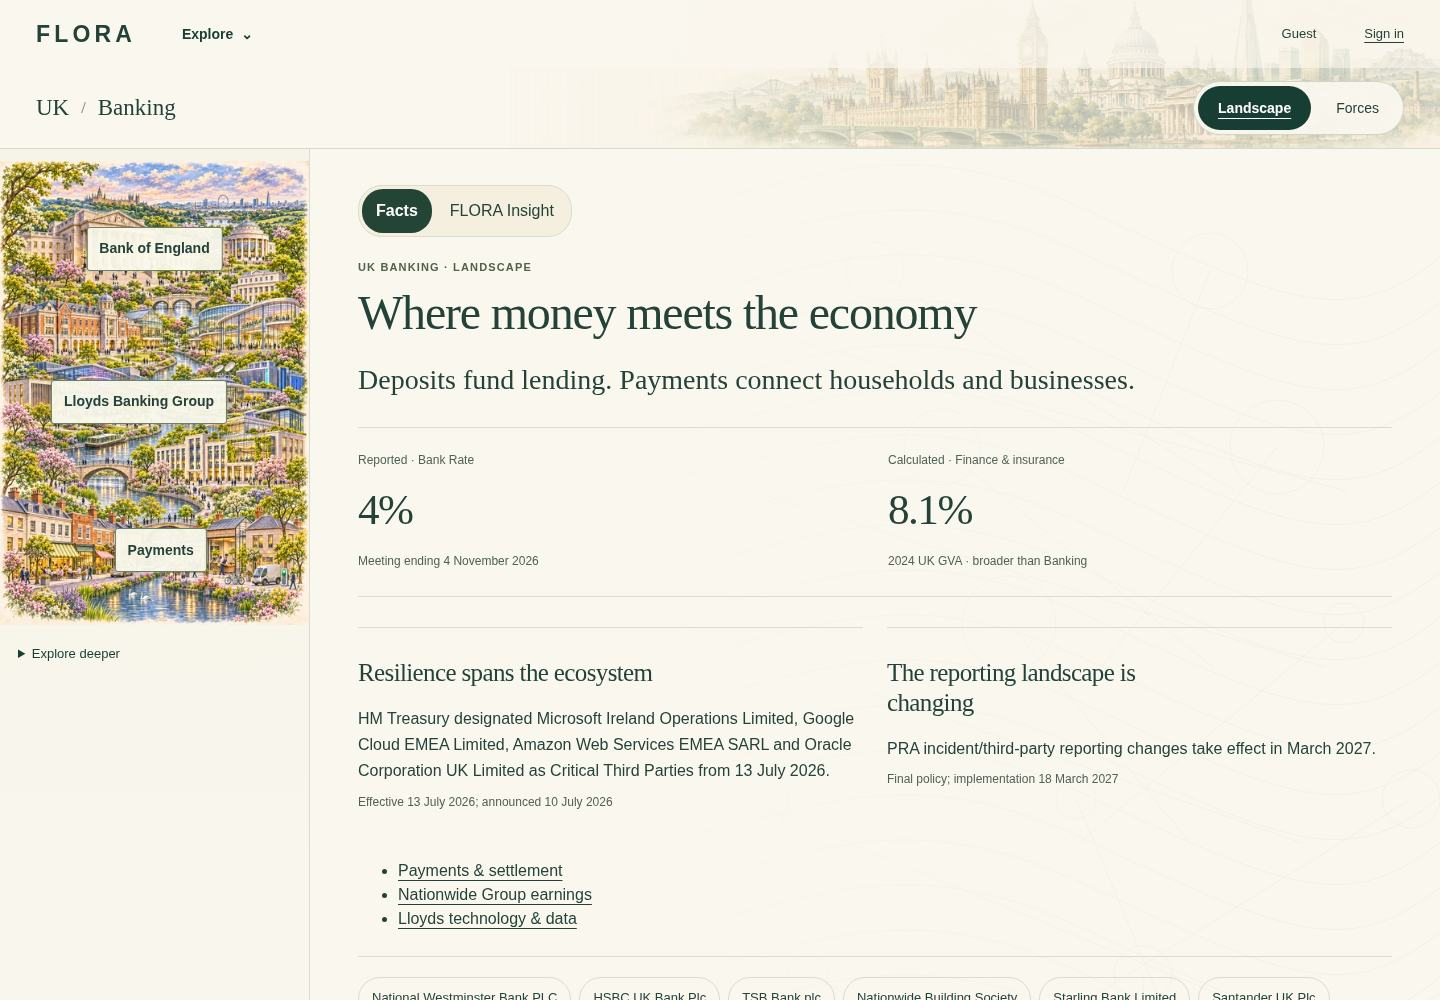
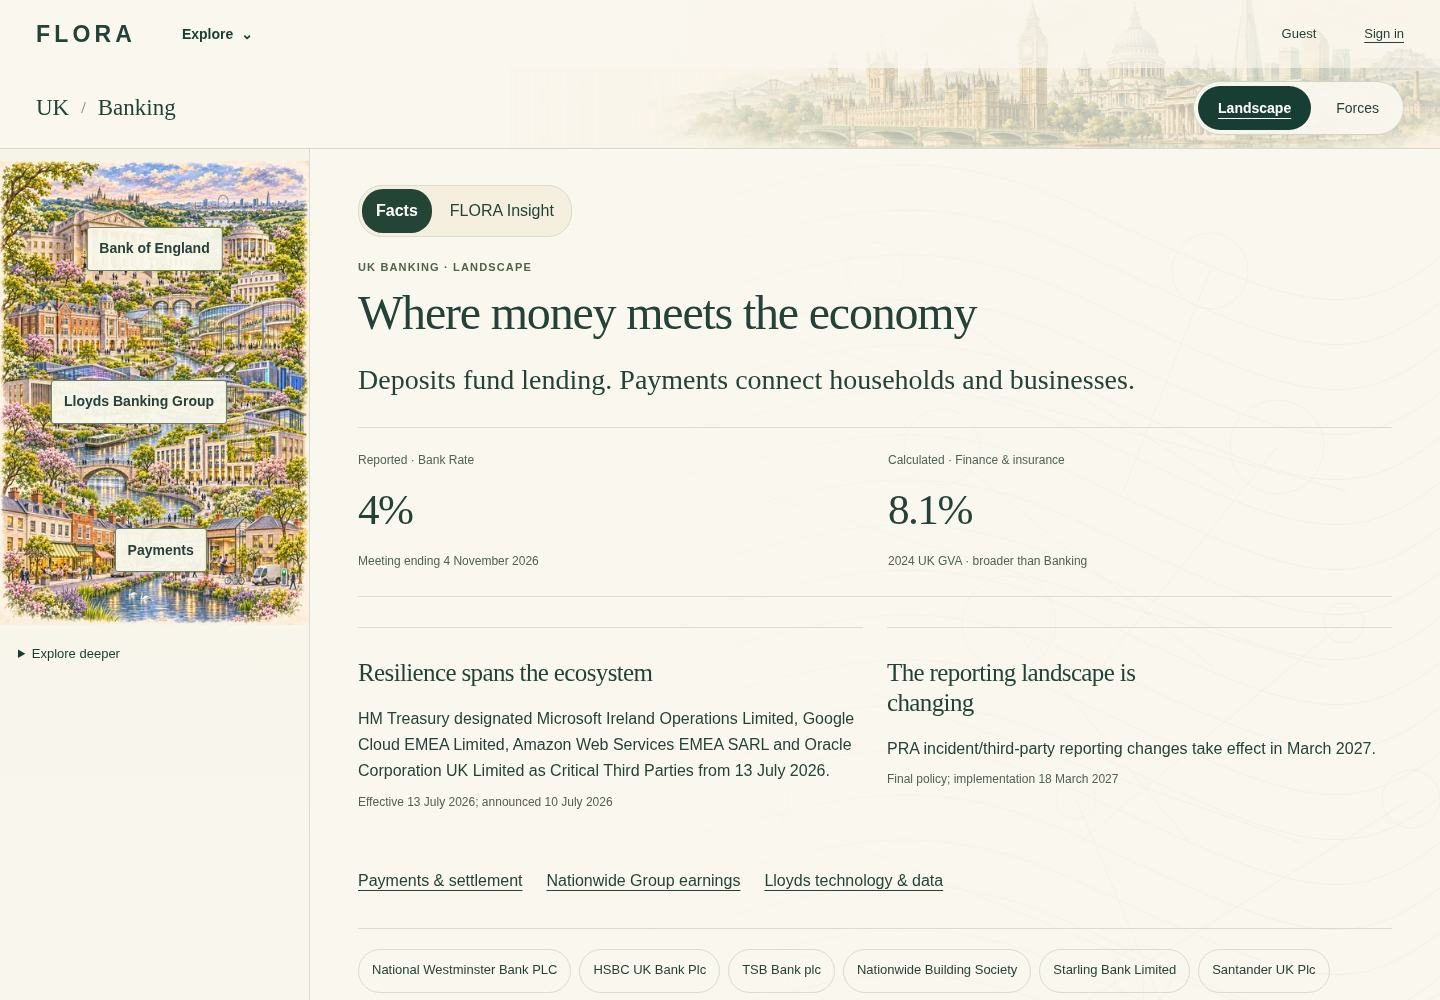
Refine Payments economics and Lloyds capability reading views

Changed region(s): [[0.25, 0.961, 0.9375, 1.0], [0.25, 0.868, 0.6562, 0.93]]

diff --git a/cios/applications/flora/reading_views.py b/cios/applications/flora/reading_views.py
@@ -17,6 +17,21 @@ STYLE = """<style>
 .reading-flow{display:flex;flex-wrap:wrap;gap:12px;list-style:none;padding:0;margin:24px 0}
 .reading-flow li{flex:1 1 9rem;border-top:2px solid #ae9158;padding:12px 8px;background:#eee8d6}
 .reading-flow strong,.reading-flow span{display:block}.reading-flow span{font-size:.85em}
+.vp-page #visual-content:focus-visible,.vp-page .focus:focus-visible{outline:none}
+.vp-page #visual-content:focus-visible .reading-mode,.vp-page .focus:focus-visible h1{box-shadow:inset 3px 0 #7055a0;padding-inline-start:8px}
+.reading-sequence{display:grid;grid-template-columns:repeat(3,minmax(0,1fr));gap:20px;list-style:none;padding:0;margin:24px 0}
+.reading-sequence li{position:relative;border-top:2px solid #9a8044;padding-block:12px}
+.reading-sequence li:not(:last-child)::after{content:"";position:absolute;right:-15px;top:-6px;width:8px;height:8px;border:solid #9a8044;border-width:2px 2px 0 0;transform:rotate(45deg)}
+.reading-sequence strong,.reading-sequence span{display:block}
+.reading-roles,.reading-drivers,.reading-links ul{display:flex;flex-wrap:wrap;gap:12px 24px}
+.reading-roles>div,.reading-drivers>div{flex:1 1 12rem}
+.reading-roles dt,.reading-drivers dt{font-weight:700}.reading-roles dd,.reading-drivers dd{margin:4px 0 0}
+.reading-economy{margin:24px 0;padding:clamp(12px,3vw,24px);background:#ede8d8;border-inline-start:3px solid #ae9158}
+.reading-economy h2,.reading-capability h2{font-size:1.25rem;margin:0 0 8px}
+.reading-capability{border-top:1px solid var(--line);padding-top:14px;margin-top:20px}
+.reading-links ul{padding:0;list-style:none;margin:18px 0 0}
+.reading-links a{display:inline-flex;align-items:center;min-height:44px}
+@media(max-width:600px){.reading-sequence{grid-template-columns:1fr;gap:10px}.reading-sequence li:not(:last-child)::after{display:none}}
 .reading-context{font-size:.85em;color:var(--muted)}
 .reading-pulse{border-inline-start:3px solid #ae9158;padding-inline-start:16px;margin:24px 0}
 @media(forced-colors:active){.reading-mode a[aria-current]{background:Highlight;color:HighlightText}}
@@ -38,10 +53,11 @@ def flow(stages):
     ) + '</ol>'
 
 
-def banking_links():
+def banking_links(*, include_payments=True):
     return (
         '<nav class="reading-links" aria-label="Banking subjects"><ul>'
-        '<li><a href="/industries/banking?stream=landscape&amp;detail=payments#visual-content">Payments &amp; settlement</a></li>'
+        + ('<li><a href="/industries/banking?stream=landscape&amp;detail=payments#visual-content">Payments &amp; settlement</a></li>' if include_payments else '')
+        +
         '<li><a href="/industries/banking?stream=landscape&amp;selected=nationwide#visual-content">Nationwide Group earnings</a></li>'
         '<li><a href="/enterprises/lloyds?stream=inside&amp;detail=technology#visual-content">Lloyds technology &amp; data</a></li>'
         '</ul></nav>'
@@ -57,27 +73,65 @@ def payments(ctx, data):
     )
     body += '<p class="reading-context">Conceptual · UK payment roles</p>'
     if ctx.reading == "facts":
-        body += flow((
-            ("Initiate", "The payer gives a payment instruction."),
-            ("Clear", "Participants establish what they owe."),
-            ("Settle", "Funds move to discharge obligations."),
+        body += sequence((
+            ("Initiate", "A household or business instructs its payment provider."),
+            ("Clear", "Participants exchange instructions and establish what they owe."),
+            ("Settle", "Settlement discharges the obligations between participants."),
         ))
-        body += '<p>A scheme sets rules. An operator provides the service. A network carries instructions.</p>'
+        body += (
+            '<p class="reading-context">Arrows show the order of activities. Actual access and settlement arrangements vary by system.</p>'
+            '<dl class="reading-roles"><div><dt>Scheme</dt><dd>Sets the rules for participation and processing.</dd></div>'
+            '<div><dt>Operator</dt><dd>Provides and runs the system service.</dd></div>'
+            '<div><dt>Network</dt><dd>Carries messages between participants.</dd></div></dl>'
+        )
     else:
         model = v.force_view(ctx, "UK-VALUE", data)
         if not model or not p.eligible(model):
             return body + '<p>No supported FLORA Insight for this selection.</p></section>'
         p.note_editorial_sources(model.sources)
-        body += flow((
-            ("Customer funds", "The payment amount belongs to the transaction."),
-            ("Service income", "Banks and operators can charge for distinct services."),
-            ("Continuity", "A disruption can delay instructions or settlement."),
-        ))
         body += (
-            '<p>Payment principal is different from fee income. The same volume can support different operator economics '
-            'depending on tariffs, service mix and resilience costs. Actual fees and bank dependencies require separate evidence.</p>'
+            '<section class="reading-economy"><h2>One payment, two economic flows</h2>'
+            '<dl class="reading-drivers"><div><dt>Customer principal</dt><dd>The amount transferred or settled.</dd></div>'
+            '<div><dt>Service income</dt><dd>Charges for providing payment services depend on the arrangement.</dd></div></dl></section>'
+            '<h2>What changes the economics?</h2><dl class="reading-drivers">'
+            '<div><dt>Service mix</dt><dd>The same volume can produce different income under different pricing and access arrangements.</dd></div>'
+            '<div><dt>Continuity</dt><dd>Capacity, monitoring and recovery can incur costs even when traffic is steady.</dd></div></dl>'
+            '<p>Payment volume and principal alone cannot establish operator revenue, actual fees or bank-level dependencies.</p>'
         )
-    return body + banking_links() + '</section>'
+    return body + banking_links(include_payments=False) + '</section>'
+
+
+def sequence(stages):
+    return '<ol class="reading-sequence">' + "".join(
+        f'<li><strong>{e(title)}</strong><span>{e(description)}</span></li>' for title, description in stages
+    ) + '</ol>'
+
+
+def lloyds_capability(data, *, insight):
+    controls = agenda._claims(data, ("LBG-ENVOY-CONTROLS",))
+    if not controls:
+        return unavailable("Technology & data") if insight else ""
+    collaboration = agenda._claims(data, ("LBG-ENVOY-GOOGLE",))
+    if not insight:
+        return (
+            '<section class="reading-capability"><h2>Group capability</h2>'
+            '<p class="reading-context">Conceptual · Group capability operating sequence</p>'
+            + sequence((("Develop", "Build platform tools"), ("Operate", "Use platform controls"),
+                        ("Monitor", "Review activity"))) + '</section>'
+        )
+    body = interpretation(
+        "Technology & data", controls + collaboration,
+        "Platform controls can make monitoring part of the operating process as AI use scales.",
+        "Deployment breadth, control effectiveness, net benefits and the legal contracting entity remain unverified.",
+    )
+    body += (
+        '<section class="reading-capability"><h2>Where the platform supports the capability</h2>'
+        '<dl class="reading-drivers"><div><dt>Capability</dt><dd>Operate and monitor AI use.</dd></div>'
+        '<div><dt>Enabler</dt><dd>Lloyds Banking Group describes Envoy and its controls.</dd></div>'
+    )
+    if collaboration:
+        body += '<div><dt>Disclosed collaboration</dt><dd>Google Cloud at brand scope. Any Google Cloud EMEA Limited contract or Lloyds Bank plc workload remains unverified.</dd></div>'
+    return body + '</dl></section>'
 
 
 def unavailable(title):
@@ -181,11 +235,7 @@ def insight(ctx, data, issues):
             "A designation and a brand collaboration do not establish a Lloyds Bank plc Envoy contract, workload or service exposure.",
         )
     if ctx.scope == "lloyds" and ctx.stream == "inside" and ctx.detail == "technology" and not ctx.agenda:
-        return interpretation(
-            "Technology & data", agenda._claims(data, ("LBG-ENVOY-GOOGLE", "LBG-ENVOY-CONTROLS")),
-            "A platform with controls can make monitoring part of the operating process as AI use scales. The disclosed collaboration is at Group and provider-brand scope.",
-            "Deployment breadth, control effectiveness, net benefits and the legal contracting entity remain unverified.",
-        )
+        return lloyds_capability(data, insight=True)
     if ctx.scope == "banking" and ctx.stream == "landscape" and not (ctx.detail or ctx.agenda or ctx.selected):
         item = v.force_view(ctx, "UK-VALUE", data)
         return interpretation(

diff --git a/tests/test_flora_ux_unify_670.py b/tests/test_flora_ux_unify_670.py
@@ -95,3 +95,30 @@ def test_payment_insight_suppressed_when_its_model_is_restricted(monkeypatch, fl
     assert "No supported FLORA Insight" in main(html)
     assert "Service income" not in main(html)
     assert "Guest" in html
+
+
+@pytest.mark.parametrize("scope,stream", [
+    (scope, stream)
+    for scope, spec in v.SCOPES.items()
+    for stream in spec["streams"]
+])
+def test_default_scene_has_no_authorial_insight(scope, stream):
+    path = v.SCOPES[scope]["route"]
+    facts = main(v.render(path, {"stream": [stream]}))
+    assert 'aria-current=page>Facts' in facts
+    assert 'data-semantic-type="insight"' not in facts
+    assert "FLORA INSIGHT" not in facts
+    analysis = main(v.render(path, {"stream": [stream], "reading": ["insight"]}))
+    assert 'aria-current=page>FLORA Insight' in analysis
+
+
+def test_lloyds_capability_map_respects_disclosure_lifecycle(monkeypatch):
+    query = {"stream": ["inside"], "detail": ["technology"]}
+    ctx = v.resolve(LLOYDS, query)
+    data = v.current_data(ctx)
+    claim = next(item for item in data["claims"] if item["id"] == "LBG-ENVOY-GOOGLE")
+    claim["withdrawn"] = True
+    monkeypatch.setattr(v, "current_data", lambda ctx: data)
+    analysis = main(v.render(LLOYDS, {**query, "reading": ["insight"]}))
+    assert "Envoy" in analysis and "Disclosed collaboration" not in analysis
+    assert "Google Cloud EMEA Limited" not in analysis

diff --git a/cios/applications/flora/visual_panels.py b/cios/applications/flora/visual_panels.py
@@ -422,9 +422,7 @@ def render(ctx,headers=None,*,financial_run_id=''):
             body=v._detail(ctx,spot,data).replace('<h2 id="insight-title">','<h1 id="insight-title">',1).replace('</h2>','</h1>',1)
             if ctx.scope=='lloyds' and ctx.stream=='inside' and ctx.detail=='technology':
                 if not body:body='<h1>Technology &amp; data</h1><p>No eligible disclosures for this selection.</p>'
-                body+='<p class="reading-context">Conceptual · Group capability</p>'+reading.flow((('Develop','Design platform tools'),('Operate','Apply controls'),('Monitor','Observe and review use')))
-                if agenda._claims(data,('LBG-ENVOY-GOOGLE',)):
-                    body+='<p class="material">Lloyds Banking Group describes Google Cloud as a collaborator. The disclosure is at provider-brand scope.</p>'
+                body+=reading.lloyds_capability(data,insight=False)
         elif ctx.scope=='lloyds' and ctx.stream=='inside':
             facts=_facts(data,['LBG-Q326-DEPOSITS','LBG-Q326-PROFIT','LBG-A2030-CIR'])
             body='<p class="eyebrow">Lloyds Banking Group</p><h1>Funding, earnings and efficiency</h1>'+''.join(p.render(f) for f in facts)

diff --git a/tools/research/ux_unify_compatibility.py b/tools/research/ux_unify_compatibility.py
@@ -5,7 +5,7 @@ import subprocess
 
 BASE = "b2c7f168b4ff7b42a4518cf9ab9fed0aeda22618"
 PINS = {
[5 lines of base64/hex data omitted]

diff --git a/docs/flora-runtime/ux-unify-670/Review-Refinement.md b/docs/flora-runtime/ux-unify-670/Review-Refinement.md
@@ -1,0 +1,21 @@
+# Owner review refinements
+
+The [independent review](https://github.com/rdidale-jpg/CIOS/pull/671#issuecomment-6977617499) conditionally accepted the two-axis interaction and requested a tighter visual and evidence pass. This revision stays in the same draft.
+
+| Scene | Facts | FLORA Insight or limit |
+| --- | --- | --- |
+| UK Landscape | Pinned GVA and published macro context | Sector composition and scope |
+| UK Forces | Scoped policies and published estimates | Consequences grounded in the selected force |
+| Banking Landscape | Eligible macro/industry figures, conceptual Payments sequence and role definitions | Economic distinction between payment principal and service income, with service mix and continuity cost drivers |
+| Banking Forces | Source-backed measures, historical provider pulse | Conditional resilience implications. No bank-specific exposure follows from designation. |
+| Lloyds Landscape | Group funding and financial measures, service data separately scoped to Lloyds Bank plc, disclosed context | Explicit insufficient-evidence state where the overview lacks a supported interpretation |
+| Lloyds Inside | Eligible company disclosures, conceptual capability sequence for Technology & data | Capability, described platform controls and brand-level collaborator. Effectiveness, legal contract and regulated-bank workload remain unverified. Other selections may have no supported interpretation. |
+| Lloyds Forces | Attributed targets, published strategy and announcements | Selected-force mechanisms and limitations |
+
+The automated audit renders both modes across all seven default scenes. It checks that Facts contains no authorial Insight statement or legacy uppercase Insight heading. The negative Lloyds test withdraws the collaboration claim and verifies that the dependent information disappears independently of the platform capability.
+
+Payments arrows show an illustrative sequence. Scheme, operator and network labels describe roles, with no assertion about individual participant relationships. No currently eligible named rail or operator measurement was identified for this view. Pay.UK candidate lists, tariffs and fees remain outside the public projection. Payment principal measures transferred or settled funds. Income and the economics of continuity depend on separate arrangements and costs.
+
+The large fragment-focus outline is replaced by a local marker near the reading control or heading. Links retain their keyboard outlines. Related navigation is compact and the selected Payments view omits its self-link. The existing Left paintings remain untouched. The five actual browser layouts check focus, layout and keyboard, touch, navigation, no JavaScript and mobile zoom.
+
+The original independent review informed these corrections. A new independent critique of the revised head was unavailable. Visual approval and any expansion of evidence remain owner decisions.

diff --git a/docs/flora-runtime/ux-unify-670/README.md b/docs/flora-runtime/ux-unify-670/README.md
@@ -18,9 +18,21 @@ Nationwide is an enterprise financial selection through the existing Banking Fin
 | iPad portrait | [Facts](previews/payments-facts-ipad-portrait.jpg) | [Insight](previews/payments-insight-ipad-portrait.jpg) |
 | 390px mobile | [Facts](previews/payments-facts-mobile.jpg) | [Insight](previews/payments-insight-mobile.jpg) |
 | 320px mobile, JavaScript off | [Facts](previews/payments-facts-mobile-320.jpg) | [Insight](previews/payments-insight-mobile-320.jpg) |
-| Enterprise selections | | [Nationwide earnings](previews/nationwide-insight-desktop.jpg) · [Lloyds capability](previews/lloyds-insight-desktop.jpg) · [Lloyds at 200% zoom](previews/lloyds-insight-mobile.jpg) |
+| Enterprise selections | | [Nationwide earnings](previews/nationwide-insight-desktop.jpg) · [Lloyds capability](previews/lloyds-insight-desktop.jpg) · [Lloyds at 200% zoom](previews/lloyds-insight-mobile-200pct.jpg) |
 
 The proof uses the actual `FloraWebHandler` on isolated loopback. Chromium exercised the journey, keyboard and touch, Back/Forward, reload, reduced motion, 320px with JavaScript disabled, and 200% CSS zoom on mobile. Anonymous Owner inspection was denied. Final local test counts and hosted runs are tracked in the draft PR. Independent reviewers were unavailable. The remaining visual decision is whether the existing Banking and Lloyds Left scenes plus the Main diagrams satisfy the desired operating-system depth.
+
+## Revised Lloyds capability previews
+
+| Viewport | Facts | FLORA Insight |
+| --- | --- | --- |
+| Desktop | [Facts](previews/lloyds-facts-desktop.jpg) | [Insight](previews/lloyds-insight-desktop.jpg) |
+| iPad landscape | [Facts](previews/lloyds-facts-ipad-landscape.jpg) | [Insight](previews/lloyds-insight-ipad-landscape.jpg) |
+| iPad portrait | [Facts](previews/lloyds-facts-ipad-portrait.jpg) | [Insight](previews/lloyds-insight-ipad-portrait.jpg) |
+| Mobile 390px | [Facts](previews/lloyds-facts-mobile.jpg) | [Insight](previews/lloyds-insight-mobile.jpg) |
+| Mobile 320px, JavaScript off | [Facts](previews/lloyds-facts-mobile-320.jpg) | [Insight](previews/lloyds-insight-mobile-320.jpg) |
+
+See the [owner review refinements and seven-scene audit](Review-Refinement.md).
 
 ## Rollback
 
